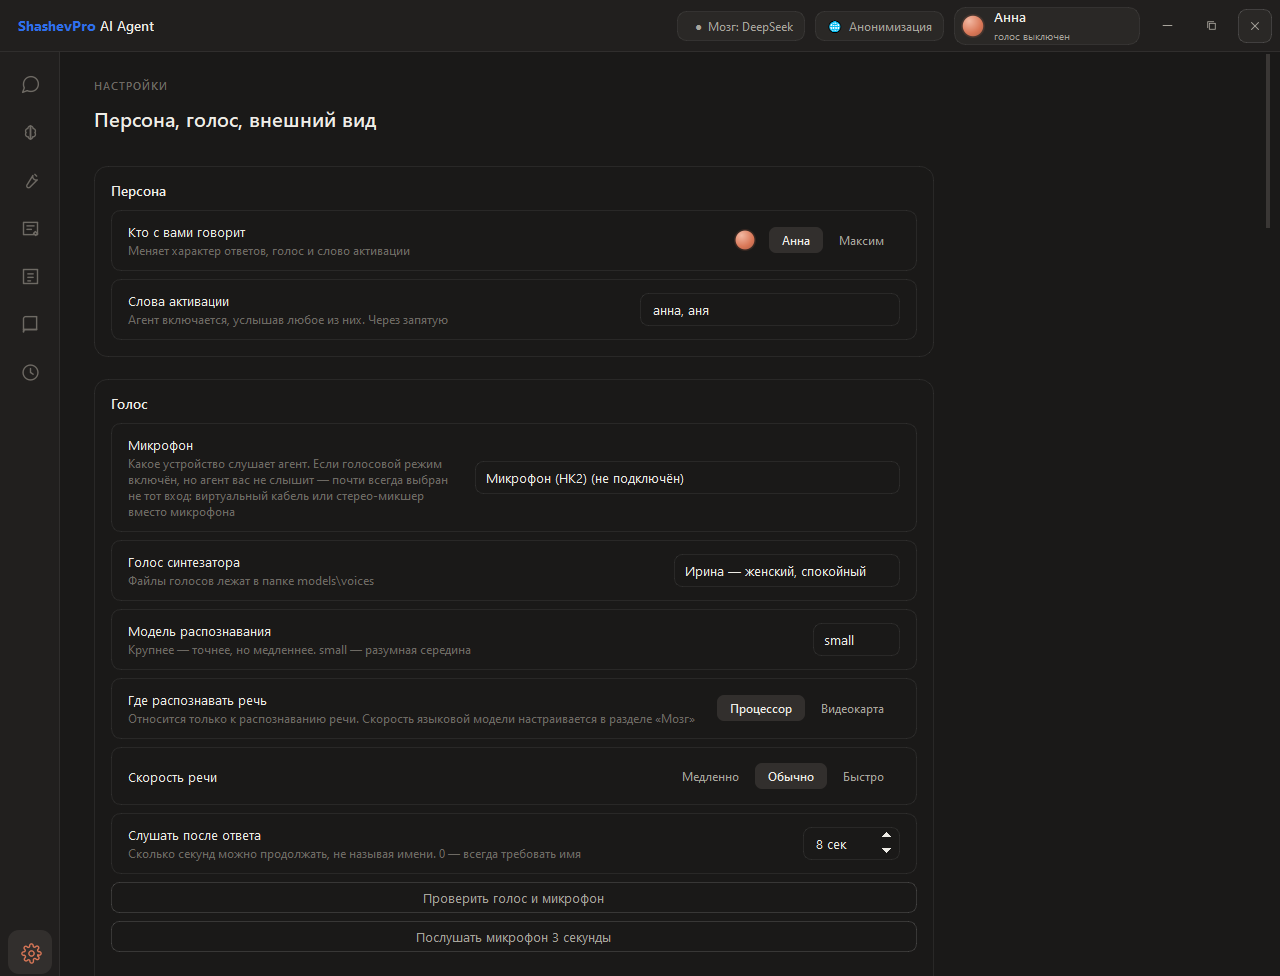
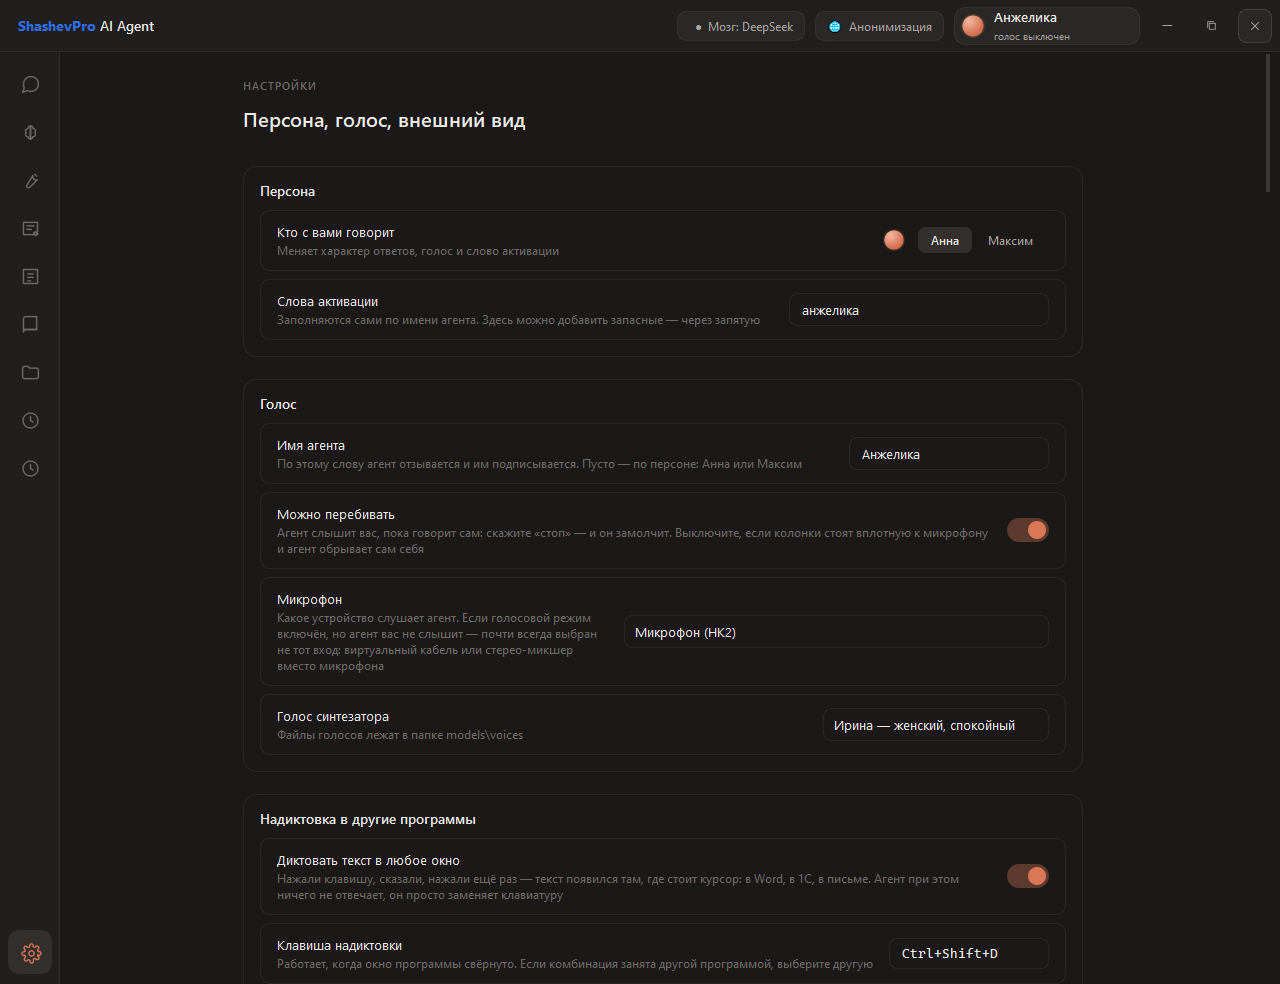
README и скриншоты: версия 2.0

diff --git a/README.en.md b/README.en.md
@@ -4,7 +4,7 @@
 
 **An AI agent for your work computer. Runs offline. Your data never leaves the machine.**
 
-Version 1.13.8 · Windows 10/11 · 68 tools
+Version 2.0.0 · Windows 10/11 · 88 tools
 
 [Русский](README.md) · [Website](https://shashevpro.ru) · [Changelog](CHANGELOG.md)
 
@@ -15,18 +15,37 @@ Version 1.13.8 · Windows 10/11 · 68 tools
 ## What it is
 
 A desktop application that understands plain speech and text and carries
-out office work on its own: it writes documents, reads email, sets
-reminders, finds files, publishes posts, watches your server.
+out office work on its own: it writes documents, reads data from 1C,
+handles email, sets reminders, finds files, takes meeting minutes,
+watches your server.
 
 Not a chatbot that gives advice — an agent that acts. Ask it to draft a
 sales contract and put it on the desktop, and you get the file, not
 instructions for making one.
 
-**The key difference from cloud agents:** it can run fully offline. A
-local model interprets tasks and calls tools without a single outbound
-request. For accounting, legal, public sector, and anyone who cannot let
-data leave the perimeter, that is not a nice-to-have — it is the
-condition of purchase.
+**Where the model runs is your choice.** On this machine, on your company
+server, or in the cloud. In the first two the data never leaves your
+perimeter: for accounting, legal, public sector, and anyone who cannot
+let data out, that is not a nice-to-have — it is the condition of
+purchase.
+
+---
+
+## What is new in version 2
+
+| | |
+|---|---|
+| **1C data** | Counterparties, stock, documents, totals by group. Read-only: no writing tools exist in the product at all |
+| **Your own company server** | The model on a company server: cloud speed while requests never leave the perimeter |
+| **A visible plan** | Given a multi-step task, the agent shows its steps and ticks them off as it goes |
+| **Vision** | Understands scans, photos of documents and what is on screen — not just character recognition |
+| **Scheduled jobs** | “Every morning at 9 check the mail and put a summary on the desktop” — the agent creates the job itself |
+| **Meeting minutes** | Recording, live transcript, finished minutes: what was discussed, what was decided, who does what |
+| **Projects** | Separate spaces: own folders, own instructions and own history per area of work |
+| **Dictation into any window** | The text lands where the cursor is: in Word, in 1C, in a browser field |
+| **Revision comparison** | “What changed in the new version of the contract” — word by word, not paragraph by paragraph |
+| **Batch processing** | “From every invoice in this folder take the supplier, number and amount” — collected into one Excel sheet |
+| **Activity report** | For management and security: what the agent did over a period, what went outside |
 
 ---
 
@@ -36,12 +55,19 @@ condition of purchase.
 |---|---|
 | Small and medium business | Document workflow without hiring for it |
 | Accounting, legal | Sensitive data handled without any cloud |
-| Companies with a closed IT perimeter | Fully local, zero telemetry |
+| Companies with a closed IT perimeter | Fully local, or your own server; zero telemetry |
 | Managers | Voice assistant and phone access via Telegram/MAX |
 
 ---
 
 ## Capabilities
+
+### 1C data
+Counterparties, stock, documents, totals by group — “the three largest
+suppliers” is one query across the whole database. Works with a file
+database on disk and with one published on a web server. **Read-only:**
+the product has no tools that write to 1C, so a settings mistake or a
+misread question cannot corrupt the books.
 
 ### Documents
 Word, Excel, PDF, PowerPoint. Russian Excel function names (`=СУММ`,
@@ -50,8 +76,9 @@ errors. Corporate templates filled in by placeholders. Presentations
 built on the client's own `.potx` with their logo and colours.
 
 ### Voice mode
-A complete offline loop: speech recognition, synthesis, wake word. Spoken
-conversations are kept in their own chat.
+A complete offline loop: speech recognition, synthesis, wake word. You
+can interrupt the agent — it keeps listening while it speaks. The name is
+yours to choose; the wake words follow it automatically.
 
 ### Phone access
 Telegram and MAX. Same agent, same memory, same documents. Voice messages
@@ -63,7 +90,8 @@ always requires explicit confirmation.
 
 ### Knowledge base
 Answers questions from your own documents — contracts, manuals, price
-lists — and cites the source.
+lists — and cites the source. Indexing is local: the content never leaves
+the machine.
 
 ### Server monitoring
 Reports the state of your server over an SSH key. **Read-only:** the
@@ -86,6 +114,8 @@ architecture rather than an afterthought.
   chat cannot trigger anything.
 - **Folder allowlist.** The agent works only inside permitted folders.
   `Windows` and `Program Files` are out of reach by design.
+- **Read-only mode.** One switch strips the agent of every tool that
+  changes anything.
 - **Anonymisation.** Before anything goes to the cloud, names, company
   names, tax IDs and phone numbers are replaced with placeholders such as
   `{{ORG_001}}`. The mapping table stays on the machine. A button shows
@@ -100,32 +130,35 @@ architecture rather than an afterthought.
 
 ## Screenshots
 
-### Chat with a cloud model (DeepSeek)
-![DeepSeek chat](docs/screenshots/chat-deepseek.png)
+### Chat
+![Chat](docs/screenshots/chat.png)
 
-### Chat with a local model (Qwen, offline)
-![Qwen chat](docs/screenshots/chat-qwen.png)
+### The agent's brain: local model, your own server or the cloud
+![Brain](docs/screenshots/brain.png)
 
-### Choosing the agent's brain
-![Brain](docs/screenshots/Mozg.png)
+### Tools: what the agent is allowed to do
+![Tools](docs/screenshots/tools.png)
 
 ### Voice mode
-![Voice](docs/screenshots/golos.png)
-
-### Tools
-![Tools](docs/screenshots/instruments.png)
+![Voice](docs/screenshots/voice.png)
 
 ### Knowledge base
-![Knowledge base](docs/screenshots/baza.png)
+![Knowledge base](docs/screenshots/knowledge-base.png)
+
+### Projects
+![Projects](docs/screenshots/projects.png)
+
+### Jobs: what the agent does on its own
+![Jobs](docs/screenshots/jobs.png)
 
 ### Notes
-![Notes](docs/screenshots/nabroski.png)
+![Notes](docs/screenshots/notes.png)
 
 ### Agent memory
-![Memory](docs/screenshots/chtopomnit.png)
+![Memory](docs/screenshots/memory.png)
 
 ### Action journal
-![Journal](docs/screenshots/jurnal.png)
+![Journal](docs/screenshots/journal.png)
 
 ### Settings
 ![Settings](docs/screenshots/settings.png)
@@ -141,21 +174,35 @@ architecture rather than an afterthought.
 | Disk | 1 GB | +5–10 GB for local models |
 | GPU | not required | NVIDIA 6+ GB speeds up the local model |
 | Internet | not required with a local model | needed for cloud model, email, bots |
+| 1C | not required | needed on the same machine for file databases |
 
 Two builds: CPU-only and GPU-enabled. Delivered as a portable version or
 an installer.
 
 ---
 
+## Server component
+
+**ShashevPro Brain Server** is a separate distribution: the model on a
+company server, available to every workstation. Cloud speed while the
+data stays inside the perimeter.
+
+Installs on Linux with a single command, inspects the machine itself and
+picks the engine and model for the number of employees. Tokens are issued
+per person; each employee gets a `.spbrain` connection file.
+
+Server and agent versions need not match: they talk over the OpenAI
+protocol, so the agent also works with llama.cpp, vLLM, Ollama and
+LM Studio.
+
+---
+
 ## Product roadmap
 
-This is the first release of a commercial product. It is complete and
-sold as is — not a beta, not a preview.
+This is the second release. Every version is self-contained and sold as
+is — not a beta, not a preview.
 
-Development continues: upcoming versions will add an execution plan shown
-before the task, a completion report with evidence, scheduled tasks, and
-support for the customer's own tools. Every version is self-contained and
-ready to sell; new capabilities are documented here and in the
+Development continues; new capabilities are documented here and in the
 [changelog](CHANGELOG.md).
 
 ---
